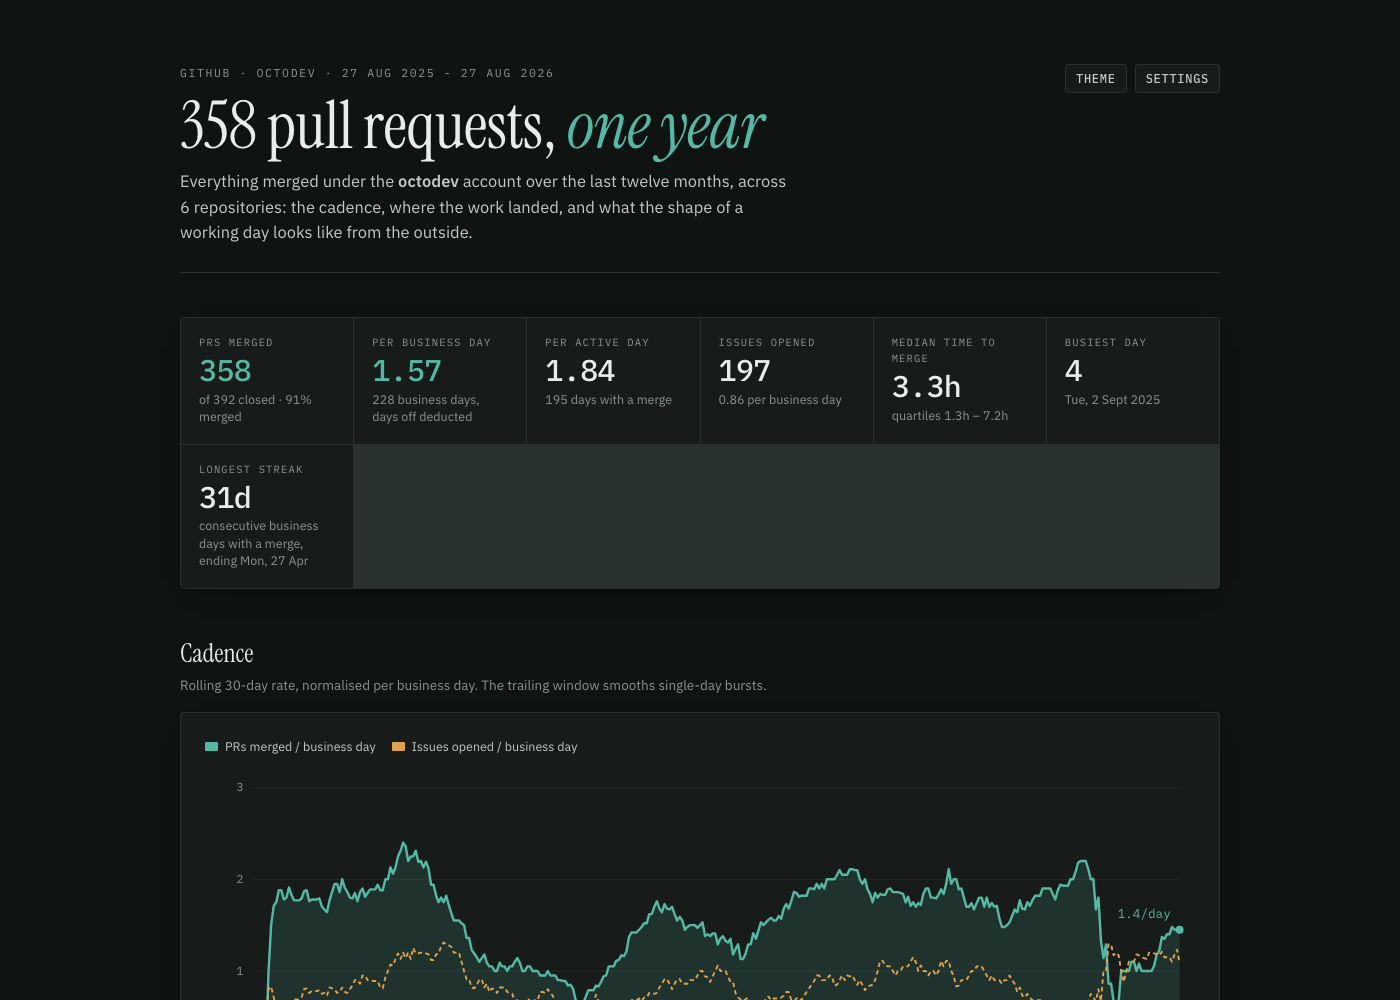
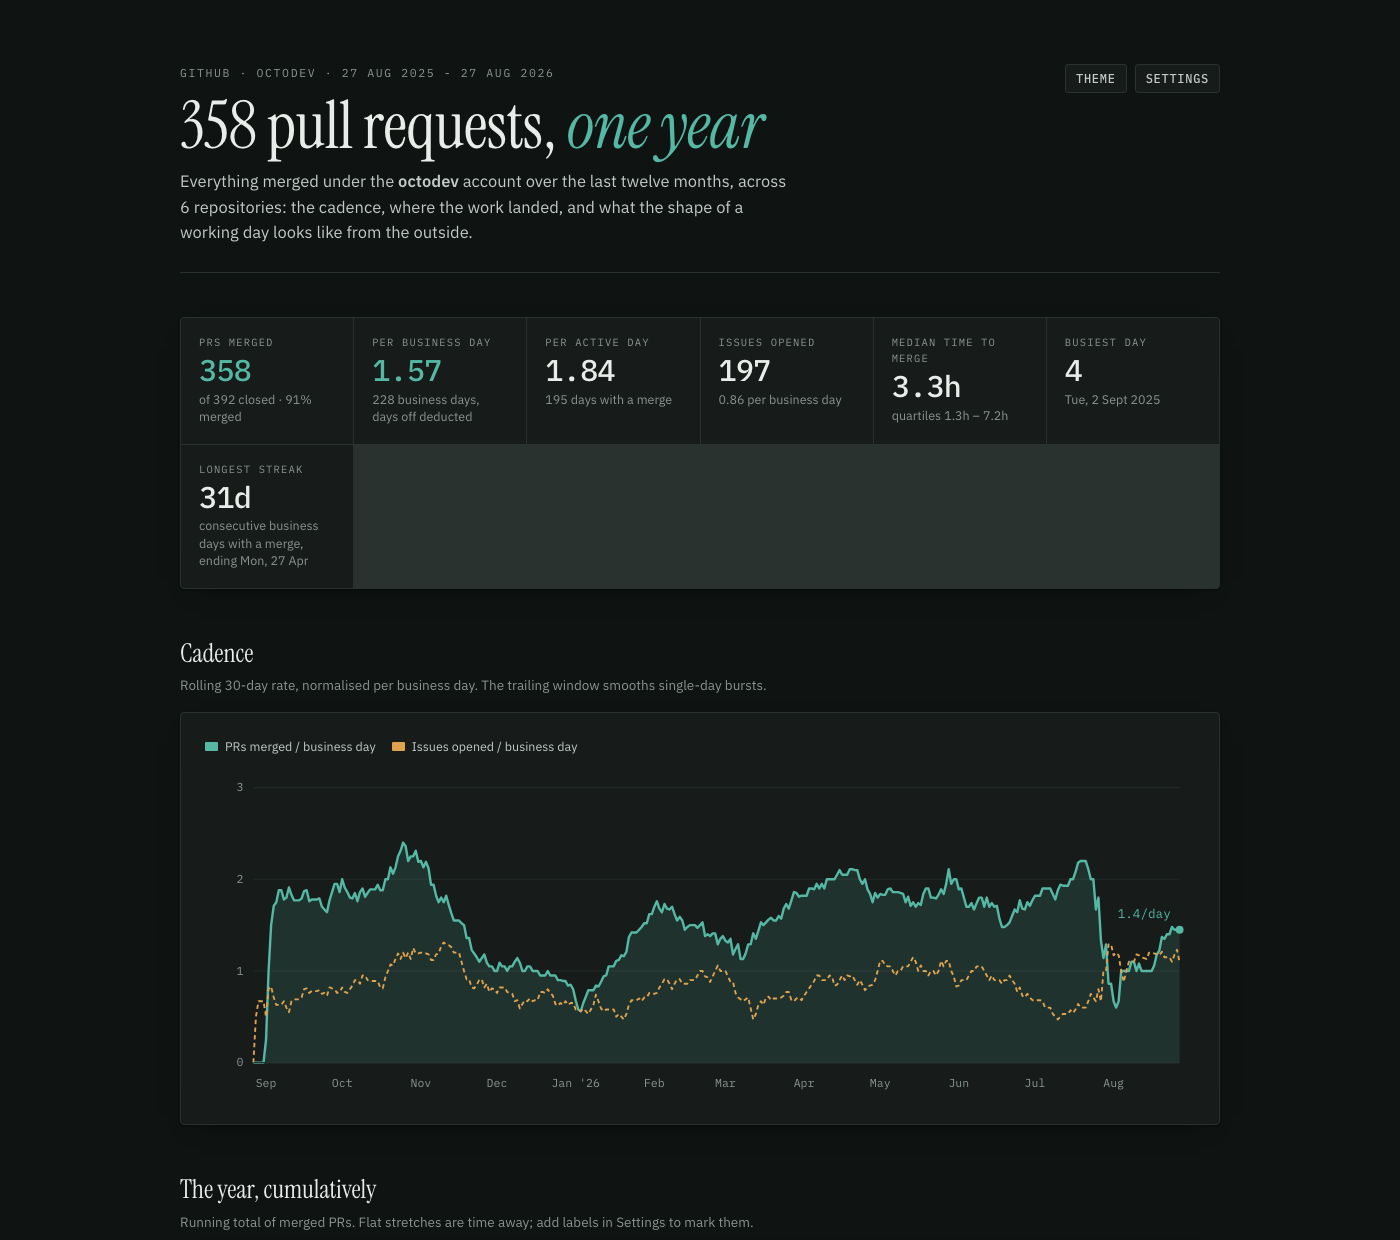
Stat rail: fixed 4-column grid with a Repositories tile
Seven auto-fit tiles left one orphan on a second row. Eight tiles in
two rows of four (two columns on narrow screens). README screenshot now
includes the full cadence chart.

diff --git a/docs/index.html b/docs/index.html
@@ -53,7 +53,8 @@ section{display:flex;flex-direction:column;gap:16px}
 .card{background:var(--surface);border:1px solid var(--line);border-radius:4px;padding:clamp(16px,2.4vw,24px);
   box-shadow:var(--shadow);display:flex;flex-direction:column;gap:14px}
 .rail{display:grid;gap:1px;background:var(--line);border:1px solid var(--line);border-radius:4px;overflow:hidden;
-  grid-template-columns:repeat(auto-fit,minmax(168px,1fr));box-shadow:var(--shadow)}
+  grid-template-columns:repeat(2,1fr);box-shadow:var(--shadow)}
+@media(min-width:860px){.rail{grid-template-columns:repeat(4,1fr)}}
 .tile{background:var(--surface);padding:16px 18px 18px;display:flex;flex-direction:column;gap:3px}
 .tile .k{font-family:"IBM Plex Mono",monospace;font-size:10.5px;letter-spacing:.11em;text-transform:uppercase;color:var(--muted)}
 .tile .v{font-family:"IBM Plex Mono",monospace;font-variant-numeric:tabular-nums;font-size:30px;
@@ -477,6 +478,7 @@ function render() {
     {k: 'Issues opened', v: fmt(S.issues), n: `${S.issPerBiz.toFixed(2)} per business day`},
     {k: 'Median time to merge', v: S.ttmMedian + 'h', n: `quartiles ${S.ttmP25}h – ${S.ttmP75}h`},
     {k: 'Busiest day', v: String(S.busiestN), n: S.busiest ? longDate(S.busiest) : '—'},
+    {k: 'Repositories', v: String(S.repoCount), n: 'with a merged PR'},
     {k: 'Longest streak', v: S.longestStreak + 'd', n: 'consecutive business days with a merge' + (S.longestStreakEnd ? ', ending ' + longDate(S.longestStreakEnd).replace(/ \d{4}$/, '') : '')},
   ];
   $('rail').innerHTML = tiles.map(t =>

diff --git a/gh_dashboard/template.html b/gh_dashboard/template.html
@@ -53,7 +53,8 @@ section{display:flex;flex-direction:column;gap:16px}
 .card{background:var(--surface);border:1px solid var(--line);border-radius:4px;padding:clamp(16px,2.4vw,24px);
   box-shadow:var(--shadow);display:flex;flex-direction:column;gap:14px}
 .rail{display:grid;gap:1px;background:var(--line);border:1px solid var(--line);border-radius:4px;overflow:hidden;
-  grid-template-columns:repeat(auto-fit,minmax(168px,1fr));box-shadow:var(--shadow)}
+  grid-template-columns:repeat(2,1fr);box-shadow:var(--shadow)}
+@media(min-width:860px){.rail{grid-template-columns:repeat(4,1fr)}}
 .tile{background:var(--surface);padding:16px 18px 18px;display:flex;flex-direction:column;gap:3px}
 .tile .k{font-family:"IBM Plex Mono",monospace;font-size:10.5px;letter-spacing:.11em;text-transform:uppercase;color:var(--muted)}
 .tile .v{font-family:"IBM Plex Mono",monospace;font-variant-numeric:tabular-nums;font-size:30px;
@@ -477,6 +478,7 @@ function render() {
     {k: 'Issues opened', v: fmt(S.issues), n: `${S.issPerBiz.toFixed(2)} per business day`},
     {k: 'Median time to merge', v: S.ttmMedian + 'h', n: `quartiles ${S.ttmP25}h – ${S.ttmP75}h`},
     {k: 'Busiest day', v: String(S.busiestN), n: S.busiest ? longDate(S.busiest) : '—'},
+    {k: 'Repositories', v: String(S.repoCount), n: 'with a merged PR'},
     {k: 'Longest streak', v: S.longestStreak + 'd', n: 'consecutive business days with a merge' + (S.longestStreakEnd ? ', ending ' + longDate(S.longestStreakEnd).replace(/ \d{4}$/, '') : '')},
   ];
   $('rail').innerHTML = tiles.map(t =>
